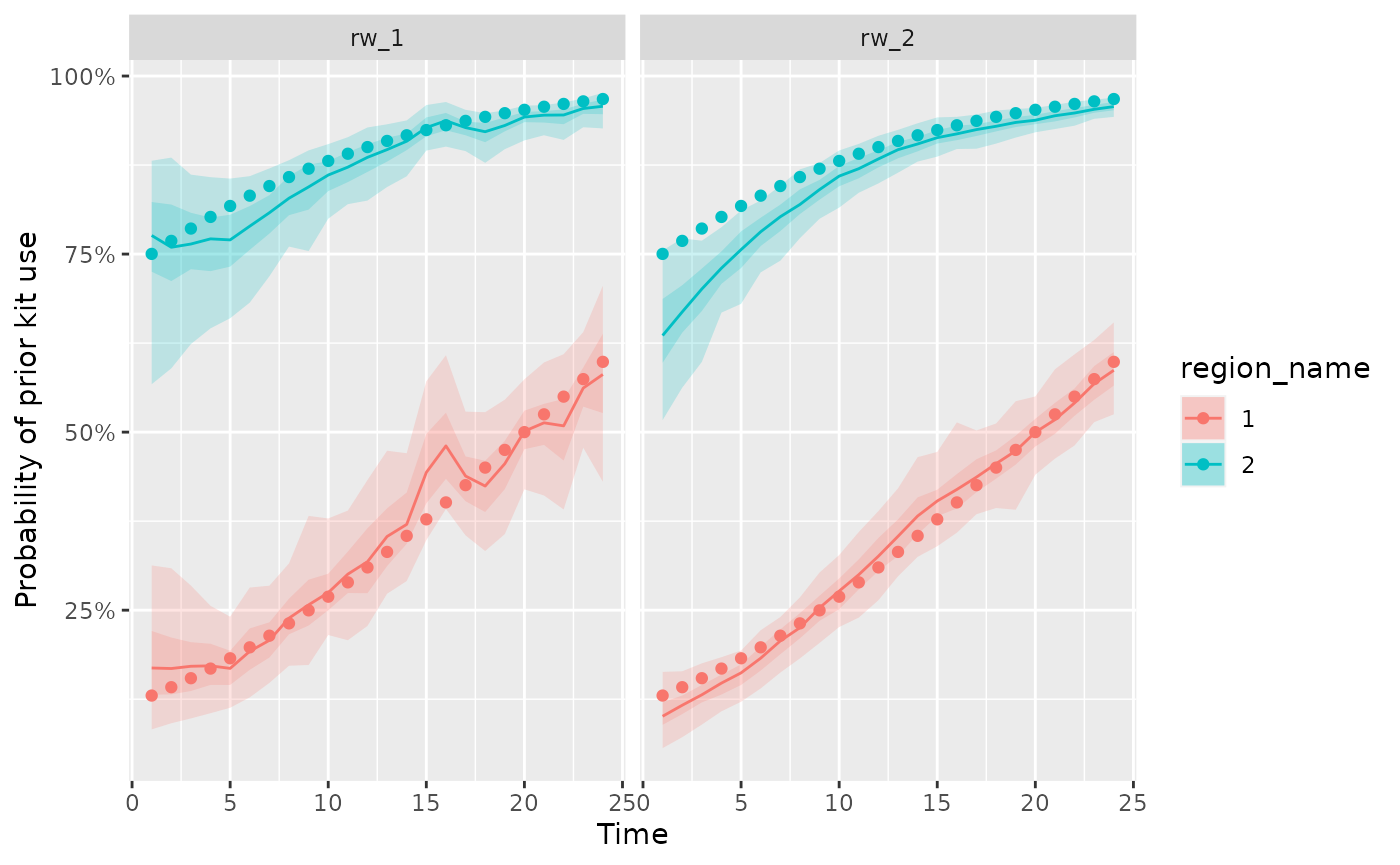
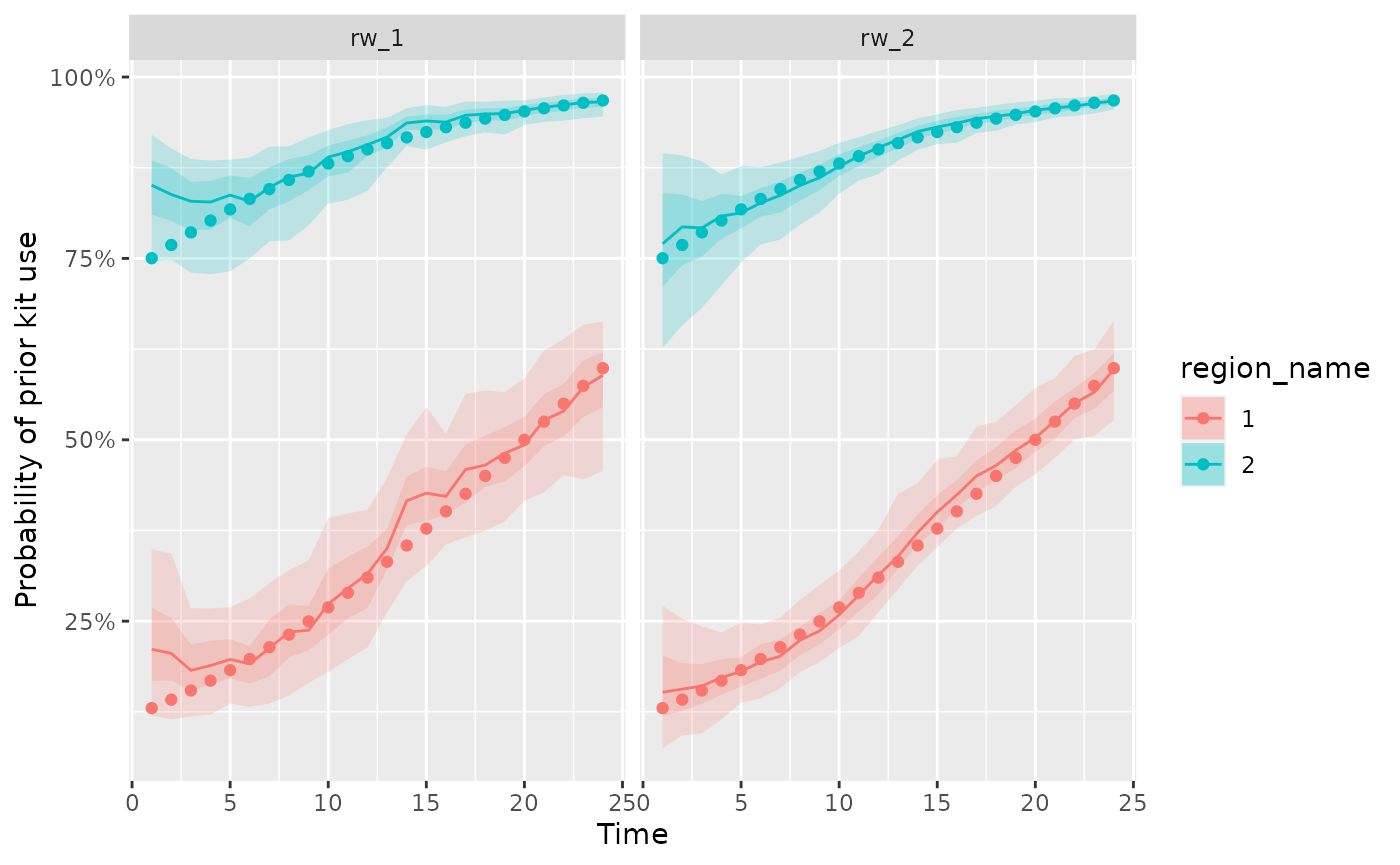
Deploying to gh-pages from @ sempwn/bennu@aa692144a8229d34f1d5a0a5075e1e36ce6a343c 🚀

diff --git a/articles/Introduction.html b/articles/Introduction.html
@@ -135,11 +135,9 @@
 <span><span class="co">#&gt; <span style="color: #555555;">This warning is displayed once every 8 hours.</span></span></span>
 <span><span class="co">#&gt; <span style="color: #555555;">Call `lifecycle::last_lifecycle_warnings()` to see where this warning was</span></span></span>
 <span><span class="co">#&gt; <span style="color: #555555;">generated.</span></span></span>
-<span><span class="co">#&gt; Warning: There were 13 divergent transitions after warmup. See</span></span>
+<span><span class="co">#&gt; Warning: There were 8 divergent transitions after warmup. See</span></span>
 <span><span class="co">#&gt; https://mc-stan.org/misc/warnings.html#divergent-transitions-after-warmup</span></span>
 <span><span class="co">#&gt; to find out why this is a problem and how to eliminate them.</span></span>
-<span><span class="co">#&gt; Warning: There were 1 chains where the estimated Bayesian Fraction of Missing Information was low. See</span></span>
-<span><span class="co">#&gt; https://mc-stan.org/misc/warnings.html#bfmi-low</span></span>
 <span><span class="co">#&gt; Warning: Examine the pairs() plot to diagnose sampling problems</span></span>
 <span><span class="co">#&gt; Warning: The largest R-hat is NA, indicating chains have not mixed.</span></span>
 <span><span class="co">#&gt; Running the chains for more iterations may help. See</span></span>
@@ -176,16 +174,16 @@
 <span><span class="co">#&gt; <span style="color: #949494;"># A tibble: 462 × 7</span></span></span>
 <span><span class="co">#&gt;    variable   mean median    sd   mad    q5    q95</span></span>
 <span><span class="co">#&gt;    <span style="color: #949494; font-style: italic;">&lt;chr&gt;</span>     <span style="color: #949494; font-style: italic;">&lt;num&gt;</span>  <span style="color: #949494; font-style: italic;">&lt;num&gt;</span> <span style="color: #949494; font-style: italic;">&lt;num&gt;</span> <span style="color: #949494; font-style: italic;">&lt;num&gt;</span> <span style="color: #949494; font-style: italic;">&lt;num&gt;</span>  <span style="color: #949494; font-style: italic;">&lt;num&gt;</span></span></span>
-<span><span class="co">#&gt; <span style="color: #BCBCBC;"> 1</span> logp[1]  -<span style="color: #BB0000;">1.56</span>  -<span style="color: #BB0000;">1.57</span>  0.476 0.469 -<span style="color: #BB0000;">2.36</span> -<span style="color: #BB0000;">0.762</span></span></span>
-<span><span class="co">#&gt; <span style="color: #BCBCBC;"> 2</span> logp[2]  -<span style="color: #BB0000;">1.58</span>  -<span style="color: #BB0000;">1.58</span>  0.469 0.419 -<span style="color: #BB0000;">2.25</span> -<span style="color: #BB0000;">0.873</span></span></span>
-<span><span class="co">#&gt; <span style="color: #BCBCBC;"> 3</span> logp[3]  -<span style="color: #BB0000;">1.59</span>  -<span style="color: #BB0000;">1.60</span>  0.407 0.364 -<span style="color: #BB0000;">2.23</span> -<span style="color: #BB0000;">0.938</span></span></span>
-<span><span class="co">#&gt; <span style="color: #BCBCBC;"> 4</span> logp[4]  -<span style="color: #BB0000;">1.54</span>  -<span style="color: #BB0000;">1.55</span>  0.282 0.294 -<span style="color: #BB0000;">1.94</span> -<span style="color: #BB0000;">1.06</span> </span></span>
-<span><span class="co">#&gt; <span style="color: #BCBCBC;"> 5</span> logp[5]  -<span style="color: #BB0000;">1.66</span>  -<span style="color: #BB0000;">1.65</span>  0.222 0.223 -<span style="color: #BB0000;">2.03</span> -<span style="color: #BB0000;">1.32</span> </span></span>
-<span><span class="co">#&gt; <span style="color: #BCBCBC;"> 6</span> logp[6]  -<span style="color: #BB0000;">1.43</span>  -<span style="color: #BB0000;">1.42</span>  0.237 0.234 -<span style="color: #BB0000;">1.80</span> -<span style="color: #BB0000;">1.05</span> </span></span>
-<span><span class="co">#&gt; <span style="color: #BCBCBC;"> 7</span> logp[7]  -<span style="color: #BB0000;">1.37</span>  -<span style="color: #BB0000;">1.36</span>  0.240 0.233 -<span style="color: #BB0000;">1.78</span> -<span style="color: #BB0000;">1.00</span> </span></span>
-<span><span class="co">#&gt; <span style="color: #BCBCBC;"> 8</span> logp[8]  -<span style="color: #BB0000;">1.16</span>  -<span style="color: #BB0000;">1.16</span>  0.150 0.140 -<span style="color: #BB0000;">1.38</span> -<span style="color: #BB0000;">0.888</span></span></span>
-<span><span class="co">#&gt; <span style="color: #BCBCBC;"> 9</span> logp[9]  -<span style="color: #BB0000;">1.06</span>  -<span style="color: #BB0000;">1.06</span>  0.249 0.247 -<span style="color: #BB0000;">1.46</span> -<span style="color: #BB0000;">0.693</span></span></span>
-<span><span class="co">#&gt; <span style="color: #BCBCBC;">10</span> logp[10] -<span style="color: #BB0000;">0.985</span> -<span style="color: #BB0000;">0.989</span> 0.121 0.115 -<span style="color: #BB0000;">1.17</span> -<span style="color: #BB0000;">0.784</span></span></span>
+<span><span class="co">#&gt; <span style="color: #BCBCBC;"> 1</span> logp[1]  -<span style="color: #BB0000;">1.25</span>  -<span style="color: #BB0000;">1.26</span>  0.393 0.388 -<span style="color: #BB0000;">1.83</span> -<span style="color: #BB0000;">0.613</span></span></span>
+<span><span class="co">#&gt; <span style="color: #BCBCBC;"> 2</span> logp[2]  -<span style="color: #BB0000;">1.37</span>  -<span style="color: #BB0000;">1.36</span>  0.369 0.398 -<span style="color: #BB0000;">1.93</span> -<span style="color: #BB0000;">0.808</span></span></span>
+<span><span class="co">#&gt; <span style="color: #BCBCBC;"> 3</span> logp[3]  -<span style="color: #BB0000;">1.56</span>  -<span style="color: #BB0000;">1.55</span>  0.296 0.306 -<span style="color: #BB0000;">2.06</span> -<span style="color: #BB0000;">1.08</span> </span></span>
+<span><span class="co">#&gt; <span style="color: #BCBCBC;"> 4</span> logp[4]  -<span style="color: #BB0000;">1.48</span>  -<span style="color: #BB0000;">1.48</span>  0.280 0.257 -<span style="color: #BB0000;">1.96</span> -<span style="color: #BB0000;">1.11</span> </span></span>
+<span><span class="co">#&gt; <span style="color: #BCBCBC;"> 5</span> logp[5]  -<span style="color: #BB0000;">1.35</span>  -<span style="color: #BB0000;">1.34</span>  0.193 0.185 -<span style="color: #BB0000;">1.65</span> -<span style="color: #BB0000;">1.06</span> </span></span>
+<span><span class="co">#&gt; <span style="color: #BCBCBC;"> 6</span> logp[6]  -<span style="color: #BB0000;">1.51</span>  -<span style="color: #BB0000;">1.51</span>  0.244 0.239 -<span style="color: #BB0000;">1.92</span> -<span style="color: #BB0000;">1.10</span> </span></span>
+<span><span class="co">#&gt; <span style="color: #BCBCBC;"> 7</span> logp[7]  -<span style="color: #BB0000;">1.26</span>  -<span style="color: #BB0000;">1.29</span>  0.288 0.304 -<span style="color: #BB0000;">1.68</span> -<span style="color: #BB0000;">0.778</span></span></span>
+<span><span class="co">#&gt; <span style="color: #BCBCBC;"> 8</span> logp[8]  -<span style="color: #BB0000;">1.23</span>  -<span style="color: #BB0000;">1.19</span>  0.333 0.269 -<span style="color: #BB0000;">1.78</span> -<span style="color: #BB0000;">0.730</span></span></span>
+<span><span class="co">#&gt; <span style="color: #BCBCBC;"> 9</span> logp[9]  -<span style="color: #BB0000;">1.18</span>  -<span style="color: #BB0000;">1.17</span>  0.209 0.182 -<span style="color: #BB0000;">1.55</span> -<span style="color: #BB0000;">0.846</span></span></span>
+<span><span class="co">#&gt; <span style="color: #BCBCBC;">10</span> logp[10] -<span style="color: #BB0000;">0.940</span> -<span style="color: #BB0000;">0.928</span> 0.318 0.313 -<span style="color: #BB0000;">1.48</span> -<span style="color: #BB0000;">0.453</span></span></span>
 <span><span class="co">#&gt; <span style="color: #949494;"># ℹ 452 more rows</span></span></span></code></pre></div>
 <p>We can compare two different model fits of the probability of prior
 kit use to simulated data using the <code>plot_kit_use</code>
@@ -248,11 +246,11 @@ probability of naloxone use in time.</p>
 <span><span class="va">rw2_fit</span> <span class="op">&lt;-</span> <span class="fu"><a href="../reference/est_naloxone.html">est_naloxone</a></span><span class="op">(</span><span class="va">d</span>,</span>
 <span>                    rw_type <span class="op">=</span> <span class="fl">2</span>,</span>
 <span>                    iter<span class="op">=</span><span class="fl">100</span><span class="op">)</span></span>
-<span><span class="co">#&gt; Warning: There were 22 divergent transitions after warmup. See</span></span>
+<span><span class="co">#&gt; Warning: There were 4 divergent transitions after warmup. See</span></span>
 <span><span class="co">#&gt; https://mc-stan.org/misc/warnings.html#divergent-transitions-after-warmup</span></span>
 <span><span class="co">#&gt; to find out why this is a problem and how to eliminate them.</span></span>
-<span><span class="co">#&gt; Warning: There were 2 chains where the estimated Bayesian Fraction of Missing Information was low. See</span></span>
-<span><span class="co">#&gt; https://mc-stan.org/misc/warnings.html#bfmi-low</span></span>
+<span><span class="co">#&gt; Warning: There were 1 transitions after warmup that exceeded the maximum treedepth. Increase max_treedepth above 10. See</span></span>
+<span><span class="co">#&gt; https://mc-stan.org/misc/warnings.html#maximum-treedepth-exceeded</span></span>
 <span><span class="co">#&gt; Warning: Examine the pairs() plot to diagnose sampling problems</span></span>
 <span><span class="co">#&gt; Warning: The largest R-hat is NA, indicating chains have not mixed.</span></span>
 <span><span class="co">#&gt; Running the chains for more iterations may help. See</span></span>
@@ -272,16 +270,16 @@ probability of naloxone use in time.</p>
 <span><span class="co">#&gt; <span style="color: #949494;"># A tibble: 462 × 4</span></span></span>
 <span><span class="co">#&gt;    variable  rhat ess_bulk ess_tail</span></span>
 <span><span class="co">#&gt;    <span style="color: #949494; font-style: italic;">&lt;chr&gt;</span>    <span style="color: #949494; font-style: italic;">&lt;num&gt;</span>    <span style="color: #949494; font-style: italic;">&lt;num&gt;</span>    <span style="color: #949494; font-style: italic;">&lt;num&gt;</span></span></span>
-<span><span class="co">#&gt; <span style="color: #BCBCBC;"> 1</span> logp[1]   1.26     14.5     48.8</span></span>
-<span><span class="co">#&gt; <span style="color: #BCBCBC;"> 2</span> logp[2]   1.21     18.5     56.2</span></span>
-<span><span class="co">#&gt; <span style="color: #BCBCBC;"> 3</span> logp[3]   1.30     12.5     63.2</span></span>
-<span><span class="co">#&gt; <span style="color: #BCBCBC;"> 4</span> logp[4]   1.27     13.7     88.9</span></span>
-<span><span class="co">#&gt; <span style="color: #BCBCBC;"> 5</span> logp[5]   1.17     55.4     63.2</span></span>
-<span><span class="co">#&gt; <span style="color: #BCBCBC;"> 6</span> logp[6]   1.10     51.1    150. </span></span>
-<span><span class="co">#&gt; <span style="color: #BCBCBC;"> 7</span> logp[7]   1.25     13.8     91.4</span></span>
-<span><span class="co">#&gt; <span style="color: #BCBCBC;"> 8</span> logp[8]   1.09     84.4    134. </span></span>
-<span><span class="co">#&gt; <span style="color: #BCBCBC;"> 9</span> logp[9]   1.05     61.3     88.2</span></span>
-<span><span class="co">#&gt; <span style="color: #BCBCBC;">10</span> logp[10]  1.05    111.     134. </span></span>
+<span><span class="co">#&gt; <span style="color: #BCBCBC;"> 1</span> logp[1]   1.13     24.3    132. </span></span>
+<span><span class="co">#&gt; <span style="color: #BCBCBC;"> 2</span> logp[2]   1.14     21.5     87.2</span></span>
+<span><span class="co">#&gt; <span style="color: #BCBCBC;"> 3</span> logp[3]   1.12     26.8     87.9</span></span>
+<span><span class="co">#&gt; <span style="color: #BCBCBC;"> 4</span> logp[4]   1.07     41.3     75.1</span></span>
+<span><span class="co">#&gt; <span style="color: #BCBCBC;"> 5</span> logp[5]   1.08     50.5     87.0</span></span>
+<span><span class="co">#&gt; <span style="color: #BCBCBC;"> 6</span> logp[6]   1.05     74.8    131. </span></span>
+<span><span class="co">#&gt; <span style="color: #BCBCBC;"> 7</span> logp[7]   1.07     53.7    113. </span></span>
+<span><span class="co">#&gt; <span style="color: #BCBCBC;"> 8</span> logp[8]   1.03     79.2    154. </span></span>
+<span><span class="co">#&gt; <span style="color: #BCBCBC;"> 9</span> logp[9]   1.01    142.     154. </span></span>
+<span><span class="co">#&gt; <span style="color: #BCBCBC;">10</span> logp[10]  1.04    140.     156. </span></span>
 <span><span class="co">#&gt; <span style="color: #949494;"># ℹ 452 more rows</span></span></span></code></pre></div>
 <p>We can compare two different model fits of the probability of prior
 kit use to simulated data using the <code>plot_kit_use</code>
@@ -310,10 +308,10 @@ months</p>
 <code class="sourceCode R"><span><span class="va">missing_fit</span> <span class="op">&lt;-</span> <span class="fu"><a href="../reference/est_naloxone.html">est_naloxone</a></span><span class="op">(</span><span class="va">d_missing</span>,</span>
 <span>                    rw_type <span class="op">=</span> <span class="fl">2</span>,</span>
 <span>                    iter<span class="op">=</span><span class="fl">100</span><span class="op">)</span></span>
-<span><span class="co">#&gt; Warning: There were 6 divergent transitions after warmup. See</span></span>
+<span><span class="co">#&gt; Warning: There were 10 divergent transitions after warmup. See</span></span>
 <span><span class="co">#&gt; https://mc-stan.org/misc/warnings.html#divergent-transitions-after-warmup</span></span>
 <span><span class="co">#&gt; to find out why this is a problem and how to eliminate them.</span></span>
-<span><span class="co">#&gt; Warning: There were 1 chains where the estimated Bayesian Fraction of Missing Information was low. See</span></span>
+<span><span class="co">#&gt; Warning: There were 2 chains where the estimated Bayesian Fraction of Missing Information was low. See</span></span>
 <span><span class="co">#&gt; https://mc-stan.org/misc/warnings.html#bfmi-low</span></span>
 <span><span class="co">#&gt; Warning: Examine the pairs() plot to diagnose sampling problems</span></span>
 <span><span class="co">#&gt; Warning: The largest R-hat is NA, indicating chains have not mixed.</span></span>

diff --git a/reference/kit_summary_table.html b/reference/kit_summary_table.html
@@ -1,0 +1,172 @@
+<!DOCTYPE html>
+<!-- Generated by pkgdown: do not edit by hand --><html lang="en"><head><meta http-equiv="Content-Type" content="text/html; charset=UTF-8"><meta charset="utf-8"><meta http-equiv="X-UA-Compatible" content="IE=edge"><meta name="viewport" content="width=device-width, initial-scale=1.0"><title>Summarize model fit — kit_summary_table • bennu</title><!-- favicons --><link rel="icon" type="image/png" sizes="16x16" href="../favicon-16x16.png"><link rel="icon" type="image/png" sizes="32x32" href="../favicon-32x32.png"><link rel="apple-touch-icon" type="image/png" sizes="180x180" href="../apple-touch-icon.png"><link rel="apple-touch-icon" type="image/png" sizes="120x120" href="../apple-touch-icon-120x120.png"><link rel="apple-touch-icon" type="image/png" sizes="76x76" href="../apple-touch-icon-76x76.png"><link rel="apple-touch-icon" type="image/png" sizes="60x60" href="../apple-touch-icon-60x60.png"><!-- jquery --><script src="https://cdnjs.cloudflare.com/ajax/libs/jquery/3.4.1/jquery.min.js" integrity="sha256-CSXorXvZcTkaix6Yvo6HppcZGetbYMGWSFlBw8HfCJo=" crossorigin="anonymous"></script><!-- Bootstrap --><link rel="stylesheet" href="https://cdnjs.cloudflare.com/ajax/libs/twitter-bootstrap/3.4.1/css/bootstrap.min.css" integrity="sha256-bZLfwXAP04zRMK2BjiO8iu9pf4FbLqX6zitd+tIvLhE=" crossorigin="anonymous"><script src="https://cdnjs.cloudflare.com/ajax/libs/twitter-bootstrap/3.4.1/js/bootstrap.min.js" integrity="sha256-nuL8/2cJ5NDSSwnKD8VqreErSWHtnEP9E7AySL+1ev4=" crossorigin="anonymous"></script><!-- bootstrap-toc --><link rel="stylesheet" href="../bootstrap-toc.css"><script src="../bootstrap-toc.js"></script><!-- Font Awesome icons --><link rel="stylesheet" href="https://cdnjs.cloudflare.com/ajax/libs/font-awesome/5.12.1/css/all.min.css" integrity="sha256-mmgLkCYLUQbXn0B1SRqzHar6dCnv9oZFPEC1g1cwlkk=" crossorigin="anonymous"><link rel="stylesheet" href="https://cdnjs.cloudflare.com/ajax/libs/font-awesome/5.12.1/css/v4-shims.min.css" integrity="sha256-wZjR52fzng1pJHwx4aV2AO3yyTOXrcDW7jBpJtTwVxw=" crossorigin="anonymous"><!-- clipboard.js --><script src="https://cdnjs.cloudflare.com/ajax/libs/clipboard.js/2.0.6/clipboard.min.js" integrity="sha256-inc5kl9MA1hkeYUt+EC3BhlIgyp/2jDIyBLS6k3UxPI=" crossorigin="anonymous"></script><!-- headroom.js --><script src="https://cdnjs.cloudflare.com/ajax/libs/headroom/0.11.0/headroom.min.js" integrity="sha256-AsUX4SJE1+yuDu5+mAVzJbuYNPHj/WroHuZ8Ir/CkE0=" crossorigin="anonymous"></script><script src="https://cdnjs.cloudflare.com/ajax/libs/headroom/0.11.0/jQuery.headroom.min.js" integrity="sha256-ZX/yNShbjqsohH1k95liqY9Gd8uOiE1S4vZc+9KQ1K4=" crossorigin="anonymous"></script><!-- pkgdown --><link href="../pkgdown.css" rel="stylesheet"><script src="../pkgdown.js"></script><meta property="og:title" content="Summarize model fit — kit_summary_table"><meta property="og:description" content="Provides a summary of:
+Estimated kits distributed
+Percentage of kits distributed that are reported
+Estimated kits used
+percentage of kits used that are reported
+percentage of kits orders that are used
+probability kit used if distributed
+
+"><meta property="og:image" content="https://sempwn.github.io/bennu/logo.png"><!-- mathjax --><script src="https://cdnjs.cloudflare.com/ajax/libs/mathjax/2.7.5/MathJax.js" integrity="sha256-nvJJv9wWKEm88qvoQl9ekL2J+k/RWIsaSScxxlsrv8k=" crossorigin="anonymous"></script><script src="https://cdnjs.cloudflare.com/ajax/libs/mathjax/2.7.5/config/TeX-AMS-MML_HTMLorMML.js" integrity="sha256-84DKXVJXs0/F8OTMzX4UR909+jtl4G7SPypPavF+GfA=" crossorigin="anonymous"></script><!--[if lt IE 9]>
+<script src="https://oss.maxcdn.com/html5shiv/3.7.3/html5shiv.min.js"></script>
+<script src="https://oss.maxcdn.com/respond/1.4.2/respond.min.js"></script>
+<![endif]--></head><body data-spy="scroll" data-target="#toc">
+    
+
+    <div class="container template-reference-topic">
+      <header><div class="navbar navbar-default navbar-fixed-top" role="navigation">
+  <div class="container">
+    <div class="navbar-header">
+      <button type="button" class="navbar-toggle collapsed" data-toggle="collapse" data-target="#navbar" aria-expanded="false">
+        <span class="sr-only">Toggle navigation</span>
+        <span class="icon-bar"></span>
+        <span class="icon-bar"></span>
+        <span class="icon-bar"></span>
+      </button>
+      <span class="navbar-brand">
+        <a class="navbar-link" href="../index.html">bennu</a>
+        <span class="version label label-default" data-toggle="tooltip" data-placement="bottom" title="">0.2.1.9000</span>
+      </span>
+    </div>
+
+    <div id="navbar" class="navbar-collapse collapse">
+      <ul class="nav navbar-nav"><li>
+  <a href="../reference/index.html">Reference</a>
+</li>
+<li class="dropdown">
+  <a href="#" class="dropdown-toggle" data-toggle="dropdown" role="button" data-bs-toggle="dropdown" aria-expanded="false">
+    Articles
+     
+    <span class="caret"></span>
+  </a>
+  <ul class="dropdown-menu" role="menu"><li>
+      <a href="../articles/Introduction.html">Introduction</a>
+    </li>
+  </ul></li>
+<li>
+  <a href="../news/index.html">Changelog</a>
+</li>
+      </ul><ul class="nav navbar-nav navbar-right"><li>
+  <a href="https://github.com/sempwn/bennu/" class="external-link">
+    <span class="fab fa-github fa-lg"></span>
+     
+  </a>
+</li>
+      </ul></div><!--/.nav-collapse -->
+  </div><!--/.container -->
+</div><!--/.navbar -->
+
+      
+
+      </header><div class="row">
+  <div class="col-md-9 contents">
+    <div class="page-header">
+    <h1>Summarize model fit</h1>
+    <small class="dont-index">Source: <a href="https://github.com/sempwn/bennu/blob/HEAD/R/utils-table.R" class="external-link"><code>R/utils-table.R</code></a></small>
+    <div class="hidden name"><code>kit_summary_table.Rd</code></div>
+    </div>
+
+    <div class="ref-description">
+    <p>Provides a summary of:</p><ul><li><p>Estimated kits distributed</p></li>
+<li><p>Percentage of kits distributed that are reported</p></li>
+<li><p>Estimated kits used</p></li>
+<li><p>percentage of kits used that are reported</p></li>
+<li><p>percentage of kits orders that are used</p></li>
+<li><p>probability kit used if distributed</p></li>
+</ul></div>
+
+    <div id="ref-usage">
+    <div class="sourceCode"><pre class="sourceCode r"><code><span><span class="fu">kit_summary_table</span><span class="op">(</span><span class="va">fit</span>, <span class="va">...</span>, data <span class="op">=</span> <span class="cn">NULL</span>, accuracy <span class="op">=</span> <span class="fl">0.01</span>, cri_range <span class="op">=</span> <span class="fl">0.95</span><span class="op">)</span></span></code></pre></div>
+    </div>
+
+    <div id="arguments">
+    <h2>Arguments</h2>
+    <dl><dt>fit</dt>
+<dd><p><a href="https://mc-stan.org/rstan/reference/stanfit-class.html" class="external-link">stanfit</a> object</p></dd>
+
+
+<dt>...</dt>
+<dd><p>variables to group by in estimate</p></dd>
+
+
+<dt>data</dt>
+<dd><p>data used for model fitting. Can also include <code>p_use</code> column
+which can be used to plot true values if derived from simulated data.</p></dd>
+
+
+<dt>accuracy</dt>
+<dd><p>A number to round to. Use (e.g.) 0.01 to show 2 decimal
+places of precision. If NULL, the default, uses a heuristic that should
+ensure breaks have the minimum number of digits needed to show the
+difference between adjacent values.</p></dd>
+
+
+<dt>cri_range</dt>
+<dd><p>The range of the credible interval e.g. 0.95</p></dd>
+
+</dl></div>
+    <div id="value">
+    <h2>Value</h2>
+    
+
+<p><a href="https://dplyr.tidyverse.org/reference/reexports.html" class="external-link">dplyr::tibble</a></p>
+
+
+<dl><dt>Probability of kit use if distributed</dt>
+<dd></dd>
+
+<dt>Estimated as distributed</dt>
+<dd></dd>
+
+<dt>Proportion kits distributed that are reported</dt>
+<dd></dd>
+
+<dt>Estimated kits used</dt>
+<dd></dd>
+
+<dt>Proportion kits used that are reported</dt>
+<dd></dd>
+
+<dt>Proportion kits ordered that are used</dt>
+<dd></dd>
+
+
+</dl></div>
+    <div id="see-also">
+    <h2>See also</h2>
+    <div class="dont-index"><p>Other plots: 
+<code><a href="plot_kit_use.html">plot_kit_use</a>()</code></p></div>
+    </div>
+
+    <div id="ref-examples">
+    <h2>Examples</h2>
+    <div class="sourceCode"><pre class="sourceCode r"><code><span class="r-in"><span><span class="kw">if</span> <span class="op">(</span><span class="cn">FALSE</span><span class="op">)</span> <span class="op">{</span></span></span>
+<span class="r-in"><span>  <span class="va">fit</span> <span class="op">&lt;-</span> <span class="fu"><a href="est_naloxone.html">est_naloxone</a></span><span class="op">(</span><span class="va">d</span><span class="op">)</span></span></span>
+<span class="r-in"><span>  <span class="fu">kit_summary_table</span><span class="op">(</span><span class="va">fit</span>,<span class="va">regions</span>,data <span class="op">=</span> <span class="va">d</span><span class="op">)</span></span></span>
+<span class="r-in"><span><span class="op">}</span></span></span>
+</code></pre></div>
+    </div>
+  </div>
+  <div class="col-md-3 hidden-xs hidden-sm" id="pkgdown-sidebar">
+    <nav id="toc" data-toggle="toc" class="sticky-top"><h2 data-toc-skip>Contents</h2>
+    </nav></div>
+</div>
+
+
+      <footer><div class="copyright">
+  <p></p><p>Developed by Mike Irvine.</p>
+</div>
+
+<div class="pkgdown">
+  <p></p><p>Site built with <a href="https://pkgdown.r-lib.org/" class="external-link">pkgdown</a> 2.0.7.</p>
+</div>
+
+      </footer></div>
+
+  
+
+
+  
+
+  </body></html>
+

diff --git a/news/index.html b/news/index.html
@@ -60,6 +60,8 @@
     <div class="section level2">
 <h2 class="page-header" data-toc-text="development version" id="bennu-development-version">bennu (development version)<a class="anchor" aria-label="anchor" href="#bennu-development-version"></a></h2>
 <ul><li>
+<code>kit_summary_table</code> created to provide a quick way of summarizing model output by different strata</li>
+<li>
 <code>model_random_walk_data</code> created to more closely mimic Bayesian data generating process</li>
 <li>
 <code>generate_model_data</code> deprecated as <code>model_random_walk_data</code> will supplant it as way of generating simulation data to test properties of the model</li>

diff --git a/reference/index.html b/reference/index.html
@@ -96,6 +96,10 @@
           <p><code><a href="plot_kit_use.html">plot_kit_use()</a></code> </p>
         </td>
         <td><p>Plot of probability of naloxone kit use</p></td>
+      </tr><tr><td>
+          <p><code><a href="kit_summary_table.html">kit_summary_table()</a></code> </p>
+        </td>
+        <td><p>Summarize model fit</p></td>
       </tr></tbody></table></div>
 
   <div class="col-md-3 hidden-xs hidden-sm" id="pkgdown-sidebar">

diff --git a/reference/plot_kit_use.html b/reference/plot_kit_use.html
@@ -89,6 +89,11 @@ which can be used to plot true values if derived from simulated data.</p></dd>
 
 <p>ggplot2 object</p>
     </div>
+    <div id="see-also">
+    <h2>See also</h2>
+    <div class="dont-index"><p>Other plots: 
+<code><a href="kit_summary_table.html">kit_summary_table</a>()</code></p></div>
+    </div>
 
   </div>
   <div class="col-md-3 hidden-xs hidden-sm" id="pkgdown-sidebar">
